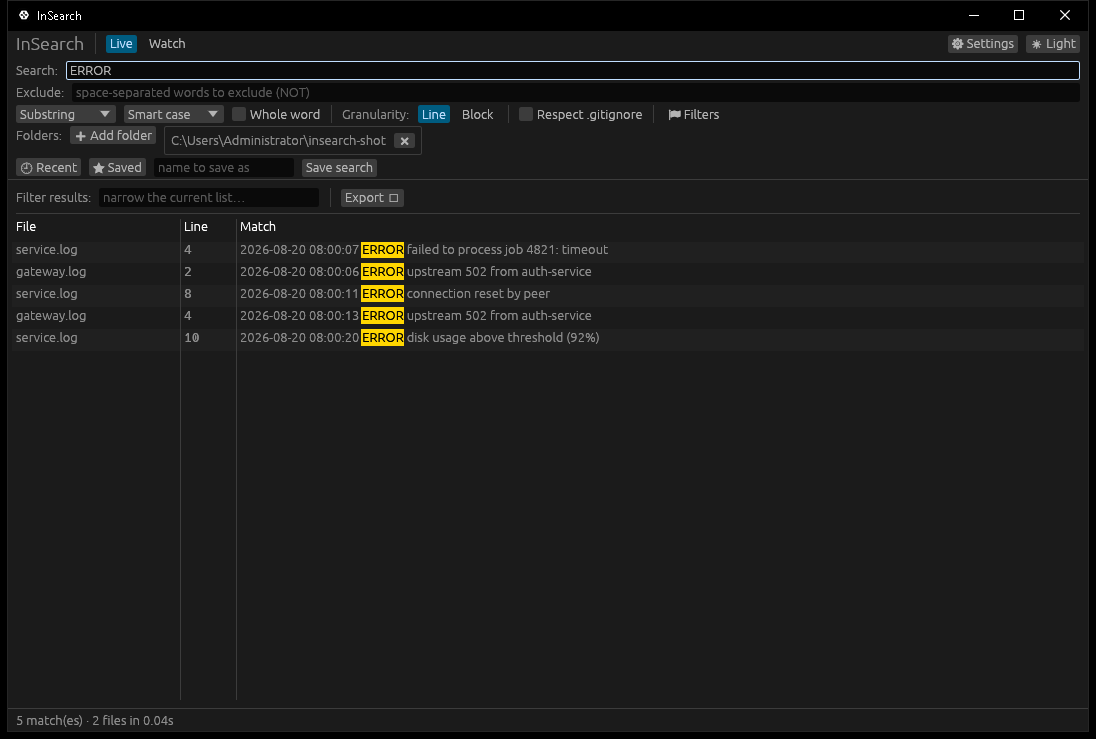
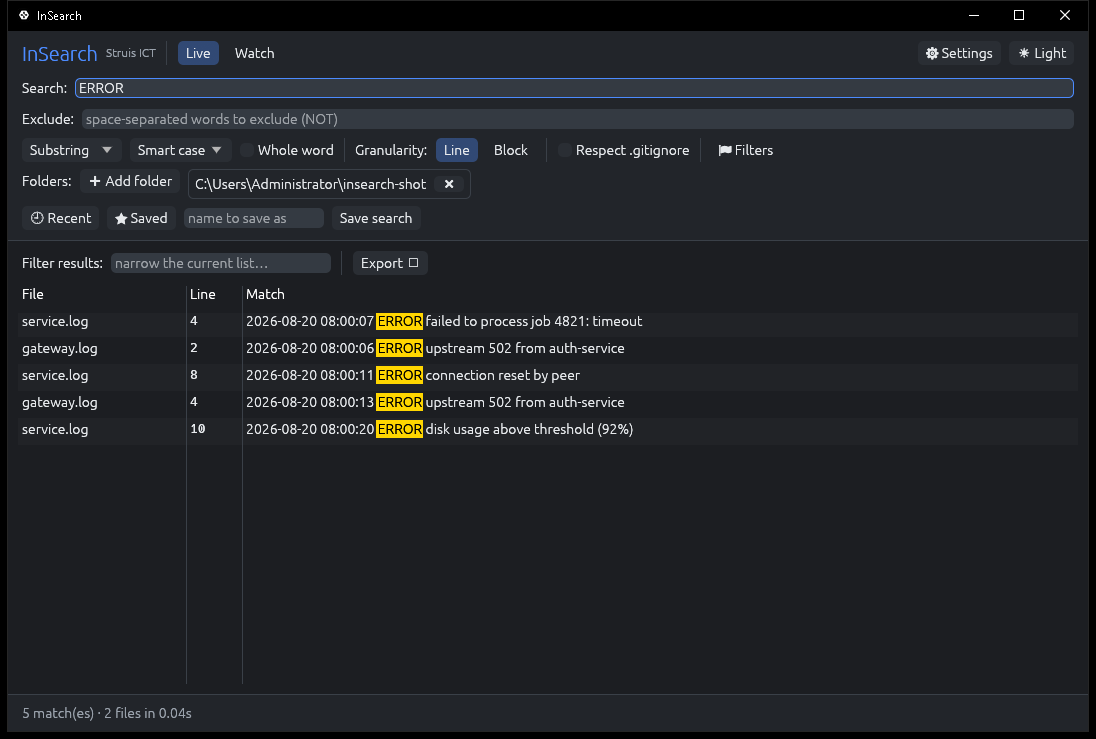
feat(ui): sleeker ClutterCutter-inspired theme
Warm-white light + soft dark palette with a brand-blue accent, hairline
separators, rounded widgets, comfortable spacing and a calmer type scale
(palette.rs). Panels now sit in framed, padded frames and the header is
branded, so the UI feels less cramped. Refresh the README screenshots
(dark + light).

Changed region(s): [[0.0, 0.0311, 0.9927, 0.5913], [0.031, 0.9337, 0.1861, 0.9959], [0.1551, 0.498, 0.1861, 0.5913]]

diff --git a/crates/insearch-gui/src/palette.rs b/crates/insearch-gui/src/palette.rs
@@ -1,13 +1,105 @@
-//! Minimal light/dark theming. Kept tiny for now; expand later with a custom
-//! palette if desired.
+//! Colour palette and global style, modelled on ClutterCutter's egui theme:
+//! a warm-white light mode and a soft dark mode, both with a brand-blue accent,
+//! subtle hairlines, rounded widgets and comfortable spacing.
 
-use eframe::egui;
+use eframe::egui::{self, Color32};
 
+pub struct Pal {
+    pub win_bg: Color32,
+    pub panel_bg: Color32,
+    pub card_bg: Color32,
+    pub card_sel: Color32,
+    pub text: Color32,
+    pub subtext: Color32,
+    pub hairline: Color32,
+    pub track: Color32,
+    pub blue: Color32,
+}
+
+pub fn palette(dark: bool) -> Pal {
+    if dark {
+        Pal {
+            win_bg: Color32::from_rgb(0x1C, 0x1E, 0x22),
+            panel_bg: Color32::from_rgb(0x22, 0x25, 0x2A),
+            card_bg: Color32::from_rgb(0x2A, 0x2E, 0x34),
+            card_sel: Color32::from_rgb(0x33, 0x39, 0x42),
+            text: Color32::from_rgb(0xE6, 0xE9, 0xEC),
+            subtext: Color32::from_rgb(0x9A, 0xA2, 0xAC),
+            hairline: Color32::from_rgb(0x3A, 0x40, 0x48),
+            track: Color32::from_rgb(0x34, 0x3A, 0x42),
+            blue: Color32::from_rgb(0x4C, 0x8B, 0xFF),
+        }
+    } else {
+        // Warm-white light theme.
+        Pal {
+            win_bg: Color32::from_rgb(0xF0, 0xEB, 0xE3),
+            panel_bg: Color32::from_rgb(0xF6, 0xF1, 0xE8),
+            card_bg: Color32::from_rgb(0xFB, 0xF8, 0xF2),
+            card_sel: Color32::from_rgb(0xEE, 0xF3, 0xFC),
+            text: Color32::from_rgb(0x26, 0x23, 0x20),
+            subtext: Color32::from_rgb(0x8C, 0x83, 0x78),
+            hairline: Color32::from_rgb(0xE8, 0xE1, 0xD6),
+            track: Color32::from_rgb(0xED, 0xE6, 0xDB),
+            blue: Color32::from_rgb(0x2D, 0x6B, 0xF0),
+        }
+    }
+}
+
+/// Push the palette and a global style (rounding, spacing, fonts) into egui.
 pub fn apply(ctx: &egui::Context, dark: bool) {
-    let visuals = if dark {
+    let p = palette(dark);
+
+    let mut v = if dark {
         egui::Visuals::dark()
     } else {
         egui::Visuals::light()
     };
-    ctx.set_visuals(visuals);
+    v.override_text_color = Some(p.text);
+    v.panel_fill = p.win_bg;
+    v.window_fill = p.panel_bg;
+    v.extreme_bg_color = p.track; // text-input background
+    v.hyperlink_color = p.blue;
+    v.selection.bg_fill = p.blue.linear_multiply(0.35);
+    v.selection.stroke = egui::Stroke::new(1.0, p.blue);
+    v.widgets.noninteractive.bg_stroke = egui::Stroke::new(1.0, p.hairline);
+
+    // Soft, rounded widgets that sit on the card colour.
+    let cr = egui::CornerRadius::same(5);
+    for w in [
+        &mut v.widgets.noninteractive,
+        &mut v.widgets.inactive,
+        &mut v.widgets.hovered,
+        &mut v.widgets.active,
+        &mut v.widgets.open,
+    ] {
+        w.corner_radius = cr;
+    }
+    v.widgets.inactive.weak_bg_fill = p.card_bg;
+    v.widgets.inactive.bg_fill = p.card_bg;
+    v.widgets.hovered.weak_bg_fill = p.card_sel;
+    v.widgets.hovered.bg_fill = p.card_sel;
+    v.window_corner_radius = egui::CornerRadius::same(8);
+    v.menu_corner_radius = egui::CornerRadius::same(6);
+    ctx.set_visuals(v);
+
+    // Comfortable spacing + slightly larger, calmer type scale (applied to both
+    // the light and dark styles).
+    use egui::{FontFamily::Proportional, FontId, TextStyle};
+    ctx.all_styles_mut(|style| {
+        style.spacing.item_spacing = egui::vec2(8.0, 7.0);
+        style.spacing.button_padding = egui::vec2(8.0, 4.0);
+        style.spacing.interact_size.y = 24.0;
+        style.spacing.window_margin = egui::Margin::same(10);
+        style.text_styles = [
+            (TextStyle::Heading, FontId::new(20.0, Proportional)),
+            (TextStyle::Body, FontId::new(14.0, Proportional)),
+            (TextStyle::Button, FontId::new(14.0, Proportional)),
+            (
+                TextStyle::Monospace,
+                FontId::new(13.0, egui::FontFamily::Monospace),
+            ),
+            (TextStyle::Small, FontId::new(11.0, Proportional)),
+        ]
+        .into();
+    });
 }

diff --git a/crates/insearch-gui/src/app.rs b/crates/insearch-gui/src/app.rs
@@ -658,8 +658,19 @@ impl App {
     }
 
     fn top_bar(&mut self, ui: &mut egui::Ui) {
+        let pal = super::palette::palette(self.dark);
         ui.horizontal(|ui| {
-            ui.heading("InSearch");
+            ui.label(
+                egui::RichText::new("InSearch")
+                    .color(pal.blue)
+                    .strong()
+                    .size(20.0),
+            );
+            ui.label(
+                egui::RichText::new("Struis ICT")
+                    .color(pal.subtext)
+                    .size(12.0),
+            );
             ui.separator();
             if ui
                 .selectable_label(self.mode == Mode::Live, "Live")
@@ -1139,33 +1150,50 @@ impl eframe::App for App {
 
         self.drain_results();
 
-        egui::Panel::top("top").show(ui, |ui| {
+        let pal = super::palette::palette(self.dark);
+        let panel_frame = egui::Frame::new()
+            .fill(pal.panel_bg)
+            .inner_margin(egui::Margin::symmetric(14, 10));
+
+        egui::Panel::top("top").frame(panel_frame).show(ui, |ui| {
             self.top_bar(ui);
         });
 
-        egui::Panel::bottom("status").show(ui, |ui| {
-            ui.horizontal(|ui| {
-                ui.label(self.status_line());
+        egui::Panel::bottom("status")
+            .frame(
+                egui::Frame::new()
+                    .fill(pal.panel_bg)
+                    .inner_margin(egui::Margin::symmetric(14, 6)),
+            )
+            .show(ui, |ui| {
+                ui.horizontal(|ui| {
+                    ui.colored_label(pal.subtext, self.status_line());
+                });
             });
-        });
 
         self.settings_window(&ctx);
 
-        egui::CentralPanel::default().show(ui, |ui| {
-            if self.results.is_empty() && !self.searching {
-                ui.centered_and_justified(|ui| {
-                    ui.weak(if self.roots.is_empty() {
-                        "Add a folder, then type a query."
-                    } else {
-                        "Type at least two characters to search."
+        egui::CentralPanel::default()
+            .frame(
+                egui::Frame::new()
+                    .fill(pal.win_bg)
+                    .inner_margin(egui::Margin::symmetric(14, 10)),
+            )
+            .show(ui, |ui| {
+                if self.results.is_empty() && !self.searching {
+                    ui.centered_and_justified(|ui| {
+                        ui.weak(if self.roots.is_empty() {
+                            "Add a folder, then type a query."
+                        } else {
+                            "Type at least two characters to search."
+                        });
                     });
-                });
-            } else {
-                self.results_toolbar(ui);
-                ui.separator();
-                self.results_table(ui);
-            }
-        });
+                } else {
+                    self.results_toolbar(ui);
+                    ui.add_space(4.0);
+                    self.results_table(ui);
+                }
+            });
 
         // Keep draining while a search streams in (fast) or a watch is active
         // (slower poll — watch updates are low-frequency).

diff --git a/README.md b/README.md
@@ -7,7 +7,12 @@ Matches can be reported **per line** or **per timestamp-to-timestamp block**.
 
 Rust + [egui](https://github.com/emilk/egui). Windows-first, Linux-portable.
 
-![InSearch searching two logs for "ERROR", with matches highlighted and a live match/timing counter](docs/screenshot.png)
+Searching two logs for `ERROR` — matches highlighted, with a live match/timing
+counter. Ships in dark and warm-white light themes:
+
+| Dark | Light |
+| --- | --- |
+| ![Dark theme](docs/screenshot.png) | ![Light theme](docs/screenshot-light.png) |
 
 ## Status
 
